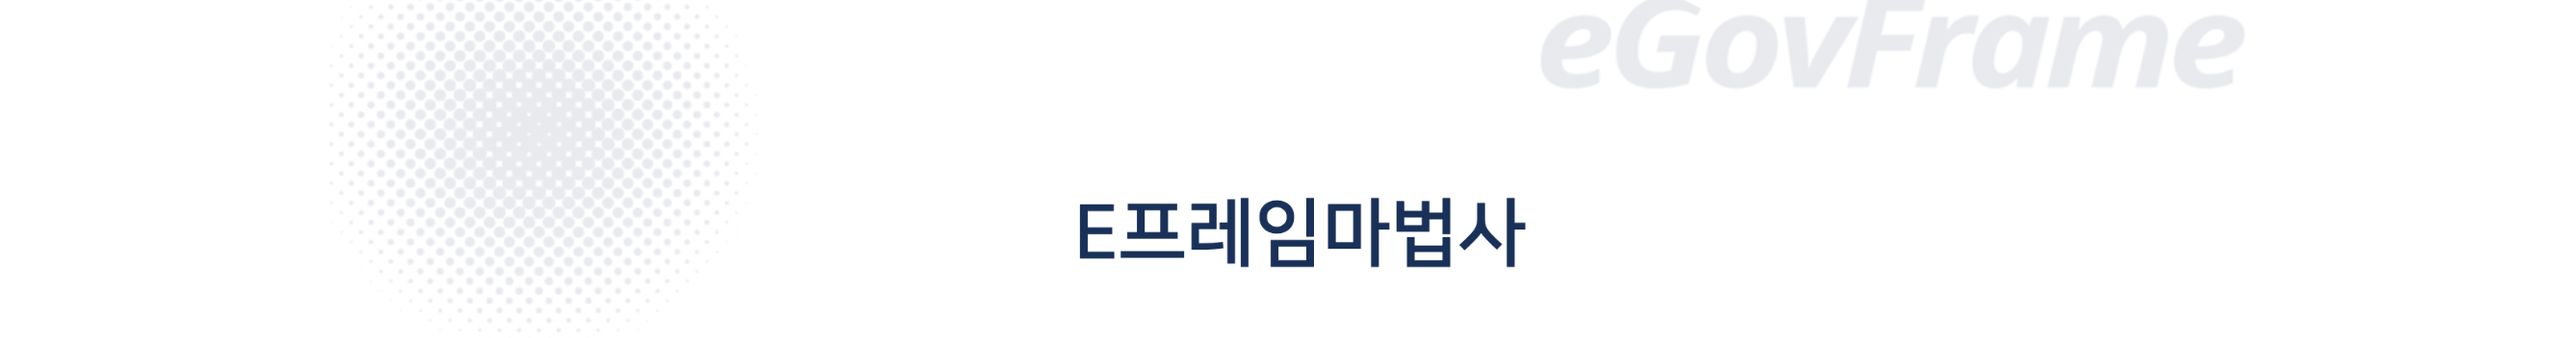
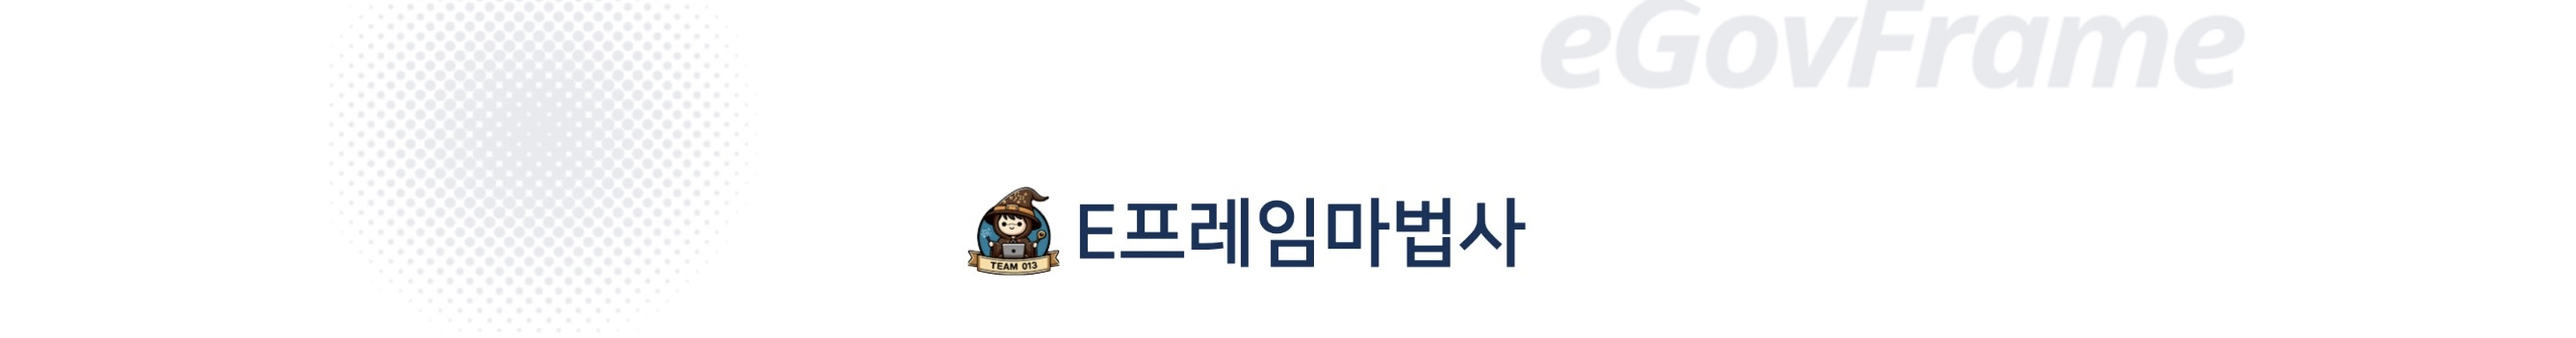
feat: code UI

Changed region(s): [[0.3722, 0.5625, 0.4342, 0.8125]]

diff --git a/src/App.tsx b/src/App.tsx
@@ -3,6 +3,7 @@ import { useState, ChangeEvent, useEffect } from 'react';
 import { BsQuestionSquareFill } from 'react-icons/bs';
 import { BsFillChatLeftTextFill } from 'react-icons/bs';
 import axios from 'axios';
+import { setDefaultResultOrder } from 'dns';
 
 const CursorSVG = () => {
   return (
@@ -17,9 +18,10 @@ const App = () => {
 
   const [inputValue, setInputValue] = useState<string>('');
   const [question, setQuestion] = useState<string>('');
-  const [chatHistory, setChatHistory] = useState([{ user: 'AI', content: '' }]);
-  const [displayResponse, setDisplayResponse] = useState('');
+  const [chatHistory, setChatHistory] = useState([{ user: 'AI', content: [''] }]);
+  const [displayResponse, setDisplayResponse] = useState(['']);
   const [completedTyping, setCompletedTyping] = useState(true);
+  const [displayTextArray, setDisplayTextArray] = useState<string[]>([]);
 
   // input 값이 변경될 때마다 호출되는 함수
   const handleChange = (event: ChangeEvent<HTMLInputElement>) => setInputValue(event.target.value); // 입력값을 state에 반영합니다.
@@ -27,60 +29,92 @@ const App = () => {
   const onClick = async () => {
     setQuestion(inputValue);
     setInputValue('');
+    setChatHistory([...chatHistory, { user: 'AI', content: [`${title}가 답변중입니다...`] }]);
 
-    // setChatHistory([...chatHistory, { user: 'AI', content: 'AI가 답변중입니다...' }]);
-    setChatHistory([...chatHistory, { user: 'AI', content: 'E프레임마법사가 답변중입니다...' }]);
-
+    // 영문 답변
     const englishResult = await axios.get('http://13.124.93.106:8080/api/test', {
       params: {
         text: inputValue,
       },
     });
+    const englishResData = englishResult.data.data.choices.map((choice: any) => {
+      return choice.message.content;
+    }).join('\n');
 
-    const englishResultData = englishResult.data.data.choices.map((choice: any) => choice.message.content).join('\n');
-
-    const res = (
+    // 한글 답변
+    const koreanRes = (
       await axios.get('http://13.124.93.106:8080/api/translate', {
         params: {
-          text: englishResultData,
+          text: englishResData,
         },
       })
     ).data;
 
     /// ''' 있을 때부터 클래스 다음 ''' 나올 때까지
-    const data = await res.data[0].translations.map((choice: any) => {
+    const koreanData = await koreanRes.data[0].translations.map((choice: any) => {
       const text = choice.text.replaceAll('안녕하세요. ', '');
-      // console.log({text});
       return text;
     }).join('\n');
 
-    // 홀수인놈만 ''' 내부 놈들임.
-    const testA = data.split("'''");
-    console.log({testA});
-    const resultText = `안녕하세요.\n표준프레임워크센터 AI입니다.\n\n${data}\n\n감사합니다.`;
-    setChatHistory([...chatHistory, { user: 'User', content: resultText }]);
+    const splitedEnglishData = englishResData.split("```");
+    const splitedKoreanData = koreanData.split("'''");
+
+    // setDisplayTextArray(splitedKoreanData)
+    // console.log({splitedKoreanData});
+
+    console.log({splitedEnglishData});
+
+    const resultText = `안녕하세요.\n표준프레임워크센터 AI, ${title} 입니다.\n\n${koreanData}\n\n감사합니다.`;
+    const splitedText = resultText.split("'''").map((text, index)=>{
+      
+      const isCode = index%2 == 1;
+      if(isCode){
+        return splitedEnglishData[index];
+      }else{
+        return text;
+      }
+    });
+
+    setChatHistory([...chatHistory, { user: 'User', content: splitedText }]);
   };
 
   useEffect(() => {
-    setCompletedTyping(false);
+    const runTypingAnimation = async () => {
+      const originContent = chatHistory[1]?.content;
+      console.log({originContent});
+      if (!originContent) return;
+      // animation start
+      setCompletedTyping(false);
+      // displayResponse string 배열이 화면에 띄워지게 됨
+      console.log({originContent : originContent[originContent.length - 1]})
 
-    let i = 0;
-    const stringResponse = chatHistory[chatHistory.length - 1].content;
+      for(let i = 0; i<originContent.length; ++i) {
+        await new Promise((resolve) => {
 
-    const intervalId = setInterval(() => {
-      setDisplayResponse(stringResponse.slice(0, i));
-      i++;
-
-      if (i > stringResponse.length) {
-        clearInterval(intervalId);
-        setCompletedTyping(true);
+          let j = 0;
+          const intervalId = setInterval(() => {
+            const tempString = originContent[i].slice(0, j);
+            j++;
+            setDisplayResponse((state) => {
+              const curState = [...state];
+              curState[i] = tempString;
+              return curState;
+            })
+            if(j > originContent[i].length) {
+              clearInterval(intervalId);
+              resolve(intervalId);
+            }
+          }, 60)
+        })
       }
-    // }, 60);
-    }, 5);
 
-    return () => clearInterval(intervalId);
-  }, [chatHistory]);
 
+      // animation fin
+      setCompletedTyping(true); // 모든 애니메이션이 끝난 후에 상태 업데이트
+    };
+  
+    runTypingAnimation();
+  }, [chatHistory]); // chatHistory 변경 시에만 useEffect 실행
   
 
   return (
@@ -116,7 +150,7 @@ const App = () => {
               />
 
               <button className={styles.submit} onClick={onClick} disabled={!inputValue || !completedTyping}>
-                질문
+                검색
               </button>
             </div>
             <div className={styles.yourQuestionContainer}>
@@ -128,9 +162,13 @@ const App = () => {
               <div className={styles.icon}>
                 <BsFillChatLeftTextFill size={40} color='green' />
               </div>
-              {/* 실제 출력되는 부분 */}
               <span className={styles.displayResponse}>
-                {displayResponse}
+                {/* {displayResponse} */}
+                {displayResponse.map((data, index) => {
+                  const predicate = index % 2 === 0;
+                  const returnTag = <pre className={predicate ? "" : styles.code} key={data + index}>{data.trim()}</pre>;
+                  return returnTag;
+                })}
                 {!completedTyping && <CursorSVG />}
               </span>
             </div>

diff --git a/src/styles.module.scss b/src/styles.module.scss
@@ -49,6 +49,7 @@
 .titleImage {
   width: 100%;
   margin-top: 20px;
+  margin-left: 29px;
 }
 
 .pageTitle {
@@ -146,6 +147,7 @@
   justify-content: flex-start;
   align-items: center;
   margin-bottom: 40px;
+  width: 100%;
 }
 
 .article {
@@ -157,4 +159,23 @@
 
 .footer {
   height: 300px;
+}
+
+.code {
+  padding: 19px 20px;
+  margin-top: 1.4rem;
+  margin-bottom: 1.4rem;
+  // background-color: #232323;
+  // color: rgb(0, 211, 42);
+  border-radius: 8px;
+  // background-color: #d8d8d8;
+  background-color: #d9d9d9;
+  color: rgb(0, 123, 20);
+}
+
+// .firstCode {
+//   background-color: #5a416a;
+// }
+pre {
+  white-space: pre-wrap;
 }
